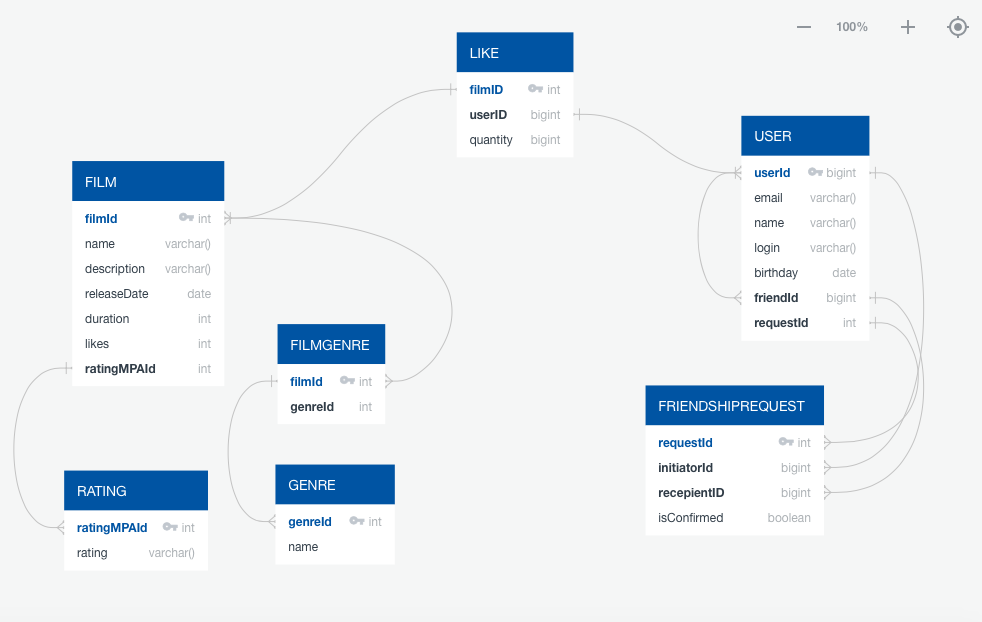
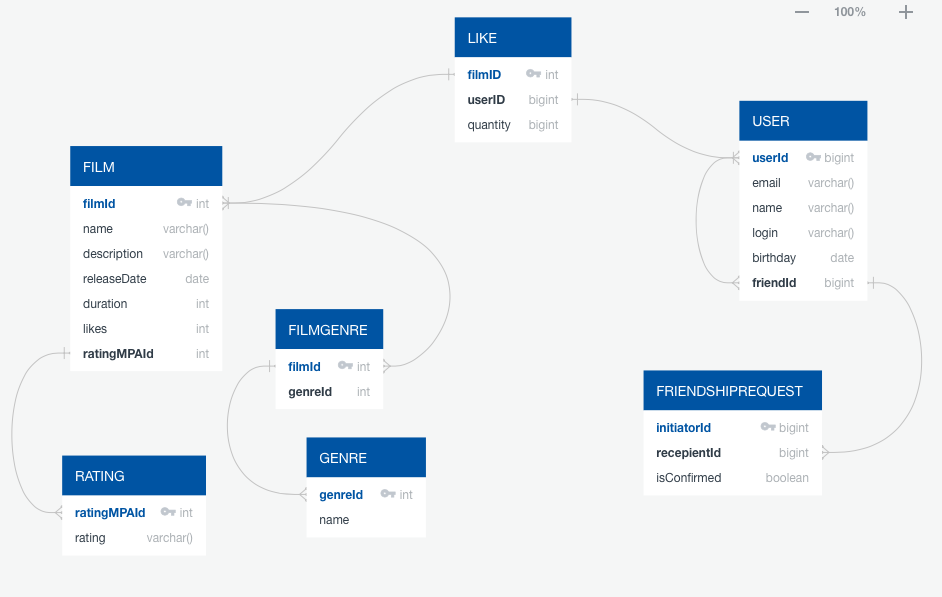
fix ER-diagram

diff --git a/src/test/java/ru/yandex/practicum/filmorate/FilmorateApplicationTests.java b/src/test/java/ru/yandex/practicum/filmorate/FilmorateApplicationTests.java
@@ -21,7 +21,7 @@ import ru.yandex.practicum.filmorate.controllers.UserController;
 import ru.yandex.practicum.filmorate.exceptions.FilmDoesNotExistException;
 import ru.yandex.practicum.filmorate.exceptions.UserDoesNotExistException;
 import ru.yandex.practicum.filmorate.model.Film;
-import ru.yandex.practicum.filmorate.model.Genres;
+import ru.yandex.practicum.filmorate.model.Genre;
 import ru.yandex.practicum.filmorate.model.RatingMPA;
 import ru.yandex.practicum.filmorate.model.User;
 import ru.yandex.practicum.filmorate.storage.InMemoryFilmStorage;
@@ -1547,7 +1547,7 @@ public class FilmorateApplicationTests {
 
         Film film = new Film(1, "All hate Cris", " Good comedy",
                 LocalDate.of(2002, 2, 10), 40, 0L,
-                RatingMPA.NC_17, Collections.singleton((Genres.COMEDY)));
+                RatingMPA.NC_17, Collections.singleton((Genre.COMEDY)));
         final Integer id = film.getId();
         filmController.addFilm(film);
 
@@ -1579,7 +1579,7 @@ public class FilmorateApplicationTests {
 
         Film film = new Film(1, "All hate Cris", " Good comedy",
                 LocalDate.of(2002, 2, 10), 40, 0L,
-                RatingMPA.NC_17, Collections.singleton((Genres.COMEDY)));
+                RatingMPA.NC_17, Collections.singleton((Genre.COMEDY)));
         final Integer id = film.getId();
         filmController.addFilm(film);
 
@@ -1587,7 +1587,7 @@ public class FilmorateApplicationTests {
 
         Film filmUpdated = new Film(1, "All like Tests", " Real comedy",
                 LocalDate.of(2023, 7, 19), 12000, 0L,
-                RatingMPA.NC_17, Collections.singleton((Genres.COMEDY)));
+                RatingMPA.NC_17, Collections.singleton((Genre.COMEDY)));
         filmController.updateFilm(filmUpdated);
 
         //проверяем корректность обновления данных
@@ -1603,7 +1603,7 @@ public class FilmorateApplicationTests {
 
         Film film = new Film(10000, "All hate Cris", " Good comedy",
                 LocalDate.of(2002, 2, 10), 40, 0L,
-                RatingMPA.NC_17, Collections.singleton((Genres.COMEDY)));
+                RatingMPA.NC_17, Collections.singleton((Genre.COMEDY)));
 
         assertThrows(
                 FilmDoesNotExistException.class,
@@ -1620,12 +1620,12 @@ public class FilmorateApplicationTests {
 
         Film film1 = new Film(1, "All hate Cris", " Good comedy",
                 LocalDate.of(2002, 2, 10), 40, 0L,
-                RatingMPA.NC_17, Collections.singleton((Genres.COMEDY)));
+                RatingMPA.NC_17, Collections.singleton((Genre.COMEDY)));
         filmController.addFilm(film1);
 
         Film film2 = new Film(1, "All like Tests", " Real comedy",
                 LocalDate.of(2023, 7, 19), 12000, 0L,
-                RatingMPA.NC_17, Collections.singleton((Genres.COMEDY)));
+                RatingMPA.NC_17, Collections.singleton((Genre.COMEDY)));
         filmController.addFilm(film2);
 
         //получаем фильмы из списка
@@ -1641,7 +1641,7 @@ public class FilmorateApplicationTests {
 
         Film film = new Film(1, "All hate Cris", " Good comedy",
                 LocalDate.of(2002, 2, 10), 40, 0L,
-                RatingMPA.NC_17, Collections.singleton((Genres.COMEDY)));
+                RatingMPA.NC_17, Collections.singleton((Genre.COMEDY)));
 
         Set<ConstraintViolation<Film>> violations = validator.validate(film);
 
@@ -1654,7 +1654,7 @@ public class FilmorateApplicationTests {
 
         Film film = new Film(1, "", " Good comedy",
                 LocalDate.of(2002, 2, 10), 40, 0L,
-                RatingMPA.NC_17, Collections.singleton((Genres.COMEDY)));
+                RatingMPA.NC_17, Collections.singleton((Genre.COMEDY)));
         Set<ConstraintViolation<Film>> violations = validator.validate(film);
 
         assertFalse(violations.isEmpty(),
@@ -1674,7 +1674,7 @@ public class FilmorateApplicationTests {
 
         Film film = new Film(1, " ", "Good comedy",
                 LocalDate.of(2002, 2, 10), 40, 0L,
-                RatingMPA.NC_17, Collections.singleton((Genres.COMEDY)));
+                RatingMPA.NC_17, Collections.singleton((Genre.COMEDY)));
         Set<ConstraintViolation<Film>> violations = validator.validate(film);
 
         assertFalse(violations.isEmpty(), "Пустое поле с названием фильма прошло валидацию");
@@ -1694,7 +1694,7 @@ public class FilmorateApplicationTests {
 
         Film film = new Film(1, null, " Good comedy",
                 LocalDate.of(2002, 2, 10), 40, 0L,
-                RatingMPA.NC_17, Collections.singleton((Genres.COMEDY)));
+                RatingMPA.NC_17, Collections.singleton((Genre.COMEDY)));
 
         Set<ConstraintViolation<Film>> violations = validator.validate(film);
 
@@ -1721,7 +1721,7 @@ public class FilmorateApplicationTests {
                         + "it's too long description. it's too long description. it's too long description. "
                         + "it's too long description. it's too long description.",
                 LocalDate.of(2002, 2, 10), 40, 0L,
-                RatingMPA.NC_17, Collections.singleton((Genres.COMEDY)));
+                RatingMPA.NC_17, Collections.singleton((Genre.COMEDY)));
 
         Set<ConstraintViolation<Film>> violations = validator.validate(film);
 
@@ -1743,7 +1743,7 @@ public class FilmorateApplicationTests {
 
         Film film = new Film(1, "All hate Cris", null,
                 LocalDate.of(2002, 2, 10), 40, 0L,
-                RatingMPA.NC_17, Collections.singleton((Genres.COMEDY)));
+                RatingMPA.NC_17, Collections.singleton((Genre.COMEDY)));
 
 
         Set<ConstraintViolation<Film>> violations = validator.validate(film);
@@ -1761,7 +1761,7 @@ public class FilmorateApplicationTests {
 
         Film film = new Film(1, "All hate Cris", " Good comedy",
                 LocalDate.of(1700, 2, 10), 40, 0L,
-                RatingMPA.NC_17, Collections.singleton((Genres.COMEDY)));
+                RatingMPA.NC_17, Collections.singleton((Genre.COMEDY)));
 
         Set<ConstraintViolation<Film>> violations = validator.validate(film);
 
@@ -1784,7 +1784,7 @@ public class FilmorateApplicationTests {
 
         Film film = new Film(1, "All hate Cris", "Good comedy",
                 null, 40, 0L,
-                RatingMPA.NC_17, Collections.singleton((Genres.COMEDY)));
+                RatingMPA.NC_17, Collections.singleton((Genre.COMEDY)));
 
         Set<ConstraintViolation<Film>> violations = validator.validate(film);
 
@@ -1807,7 +1807,7 @@ public class FilmorateApplicationTests {
 
         Film film = new Film(1, "All hate Cris", " Good comedy",
                 LocalDate.of(2002, 2, 10), (-900), 0L,
-                RatingMPA.NC_17, Collections.singleton((Genres.COMEDY)));
+                RatingMPA.NC_17, Collections.singleton((Genre.COMEDY)));
 
         Set<ConstraintViolation<Film>> violations = validator.validate(film);
 
@@ -1830,7 +1830,7 @@ public class FilmorateApplicationTests {
 
         Film film = new Film(1, "All hate Cris", " Good comedy",
                 LocalDate.of(2002, 2, 10), 0, 0L,
-                RatingMPA.NC_17, Collections.singleton((Genres.COMEDY)));
+                RatingMPA.NC_17, Collections.singleton((Genre.COMEDY)));
 
         Set<ConstraintViolation<Film>> violations = validator.validate(film);
 
@@ -1854,7 +1854,7 @@ public class FilmorateApplicationTests {
 
         Film film = new Film(1, "All hate Cris", null,
                 LocalDate.of(2002, 2, 10), null, 0L,
-                RatingMPA.NC_17, Collections.singleton((Genres.COMEDY)));
+                RatingMPA.NC_17, Collections.singleton((Genre.COMEDY)));
 
         Set<ConstraintViolation<Film>> violations = validator.validate(film);
 
@@ -2124,13 +2124,13 @@ public class FilmorateApplicationTests {
 
                     Arguments.of(new Film(1, "", " Good comedy",
                                     LocalDate.of(2002, 2, 10), 40, 0L,
-                            RatingMPA.NC_17, Collections.singleton(Genres.COMEDY))),
+                            RatingMPA.NC_17, Collections.singleton(Genre.COMEDY))),
                     Arguments.of(new Film(1, " ", "Good comedy",
                             LocalDate.of(2002, 2, 10), 40, 0L,
-                            RatingMPA.NC_17, Collections.singleton((Genres.COMEDY)))),
+                            RatingMPA.NC_17, Collections.singleton((Genre.COMEDY)))),
                     Arguments.of(new Film(1, null, " Good comedy",
                             LocalDate.of(2002, 2, 10), 40, 0L,
-                                    RatingMPA.NC_17, Collections.singleton((Genres.COMEDY)))),
+                                    RatingMPA.NC_17, Collections.singleton((Genre.COMEDY)))),
 
                     // пустое или слишком длинное описание фильма
 
@@ -2141,28 +2141,28 @@ public class FilmorateApplicationTests {
                                     + "it's too long description. it's too long description. "
                                     + "it's too long description. it's too long description.",
                             LocalDate.of(2002, 2, 10), 40, 0L,
-                                    RatingMPA.NC_17, Collections.singleton((Genres.COMEDY)))),
+                                    RatingMPA.NC_17, Collections.singleton((Genre.COMEDY)))),
                     Arguments.of(new Film(1, "All hate Cris", null,
                             LocalDate.of(2002, 2, 10), 40, 0L,
-                                    RatingMPA.NC_17, Collections.singleton((Genres.COMEDY)))),
+                                    RatingMPA.NC_17, Collections.singleton((Genre.COMEDY)))),
 
                     // пустая или невалидная дата выхода фильма
 
                     Arguments.of(new Film(1, "All hate Cris", " Good comedy",
                             LocalDate.of(1700, 2, 10), 40, 0L,
-                                    RatingMPA.NC_17, Collections.singleton((Genres.COMEDY)))),
+                                    RatingMPA.NC_17, Collections.singleton((Genre.COMEDY)))),
                     Arguments.of(new Film(1, "All hate Cris", " Good comedy",
                             null, 40, 0L,
-                                    RatingMPA.NC_17, Collections.singleton((Genres.COMEDY)))),
+                                    RatingMPA.NC_17, Collections.singleton((Genre.COMEDY)))),
 
                     // негативное или нулевое значение продолжительности фильма
 
                     Arguments.of(new Film(1, "All hate Cris", " Good comedy",
                             LocalDate.of(2002, 2, 10), 0, 0L,
-                                    RatingMPA.NC_17, Collections.singleton((Genres.COMEDY)))),
+                                    RatingMPA.NC_17, Collections.singleton((Genre.COMEDY)))),
                     Arguments.of(new Film(1, "All hate Cris", " Good comedy",
                             LocalDate.of(2002, 2, 10), -900, 0L,
-                            RatingMPA.NC_17, Collections.singleton((Genres.COMEDY)))));
+                            RatingMPA.NC_17, Collections.singleton((Genre.COMEDY)))));
         }
     }
 

diff --git a/src/main/java/ru/yandex/practicum/filmorate/model/FriendshipRequest.java b/src/main/java/ru/yandex/practicum/filmorate/model/FriendshipRequest.java
@@ -13,7 +13,6 @@ import javax.validation.constraints.NotNull;
 @RequiredArgsConstructor
 public class FriendshipRequest {
 
-    Long requestId; // id запроса на добавление в друзья
     @NotNull
     Long initiatorId; // id пользователя, отправившего запрос на добавление в друзья
     @NotNull

diff --git a/src/main/java/ru/yandex/practicum/filmorate/model/FIlmGenre.java b/src/main/java/ru/yandex/practicum/filmorate/model/FIlmGenre.java
@@ -1,0 +1,16 @@
+package ru.yandex.practicum.filmorate.model;
+
+import lombok.Builder;
+import lombok.RequiredArgsConstructor;
+import lombok.Value;
+import org.springframework.validation.annotation.Validated;
+
+@Validated
+@Value
+@Builder(toBuilder = true)
+@RequiredArgsConstructor
+public class FIlmGenre {
+
+    Integer id;
+    Genre name;
+}

diff --git a/src/main/java/ru/yandex/practicum/filmorate/model/Genre.java b/src/main/java/ru/yandex/practicum/filmorate/model/Genre.java
@@ -1,6 +1,6 @@
 package ru.yandex.practicum.filmorate.model;
 
-public enum Genres {
+public enum Genre {
     COMEDY,
     DRAMA,
     CARTOON,

diff --git a/src/main/java/ru/yandex/practicum/filmorate/model/Film.java b/src/main/java/ru/yandex/practicum/filmorate/model/Film.java
@@ -40,6 +40,6 @@ public class Film {
 
     RatingMPA ratingMPA;
 
-    Set<Genres> genres;
+    Set<Genre> genres;
 
 }
